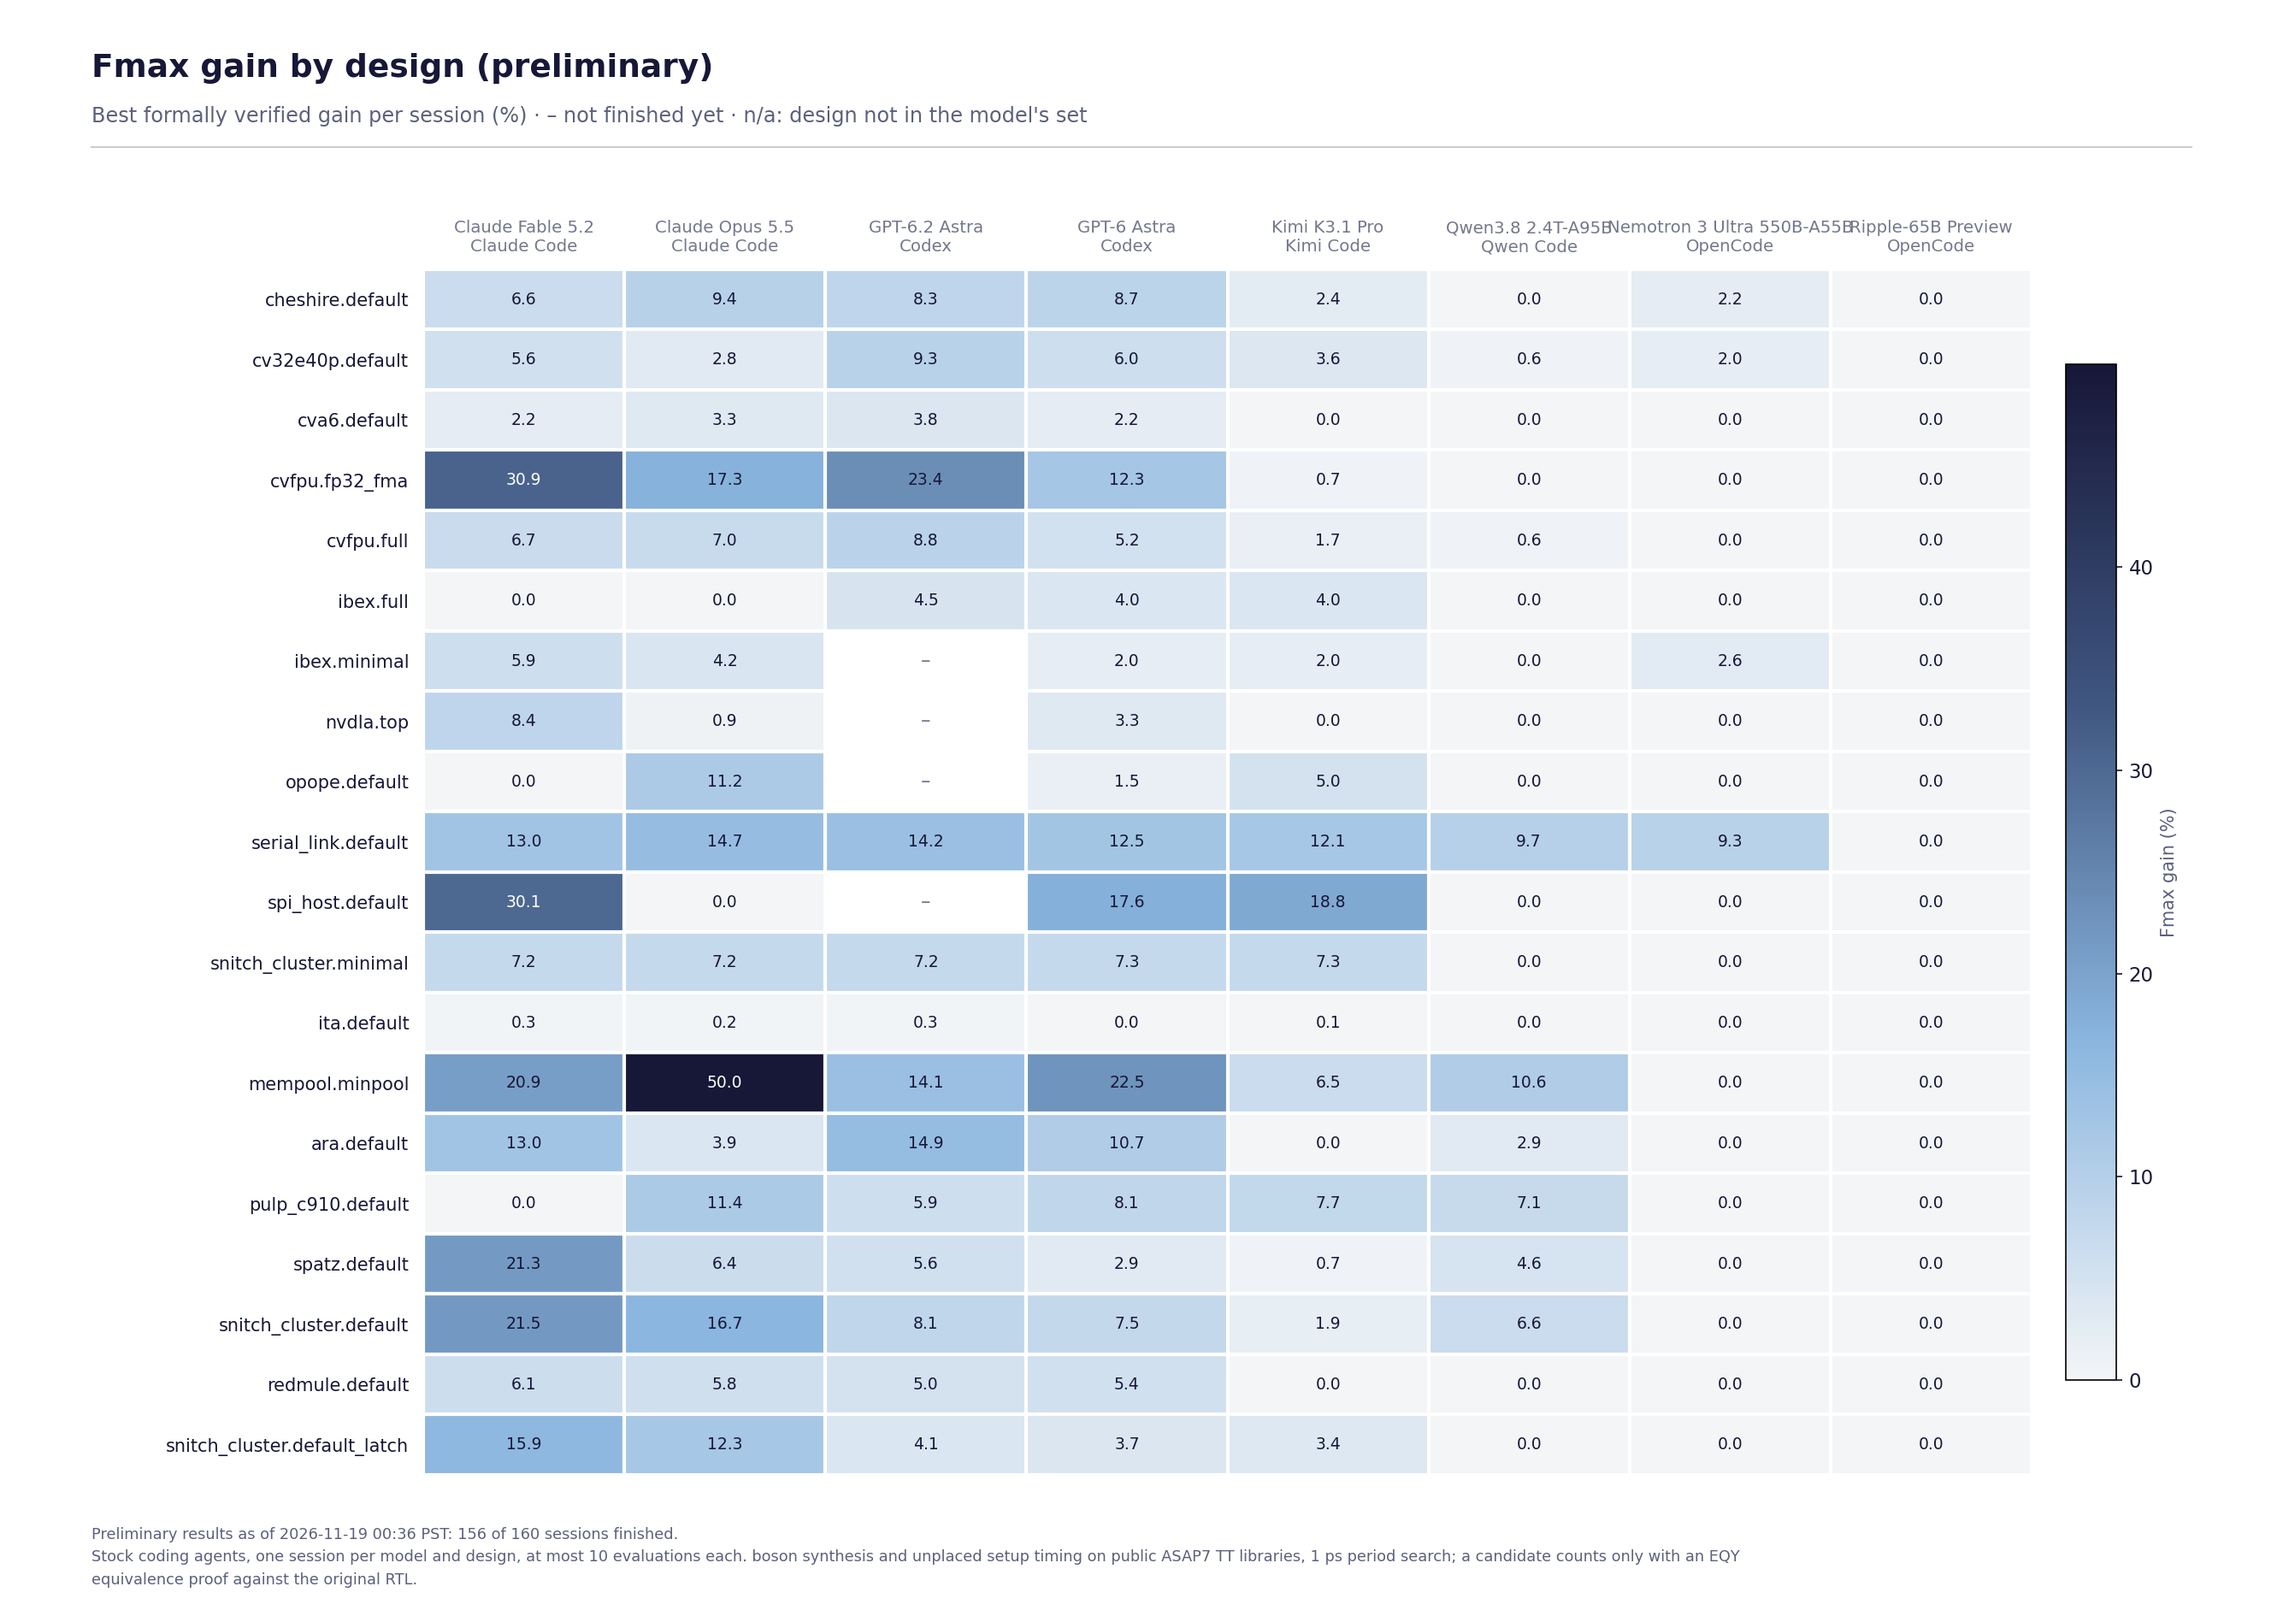
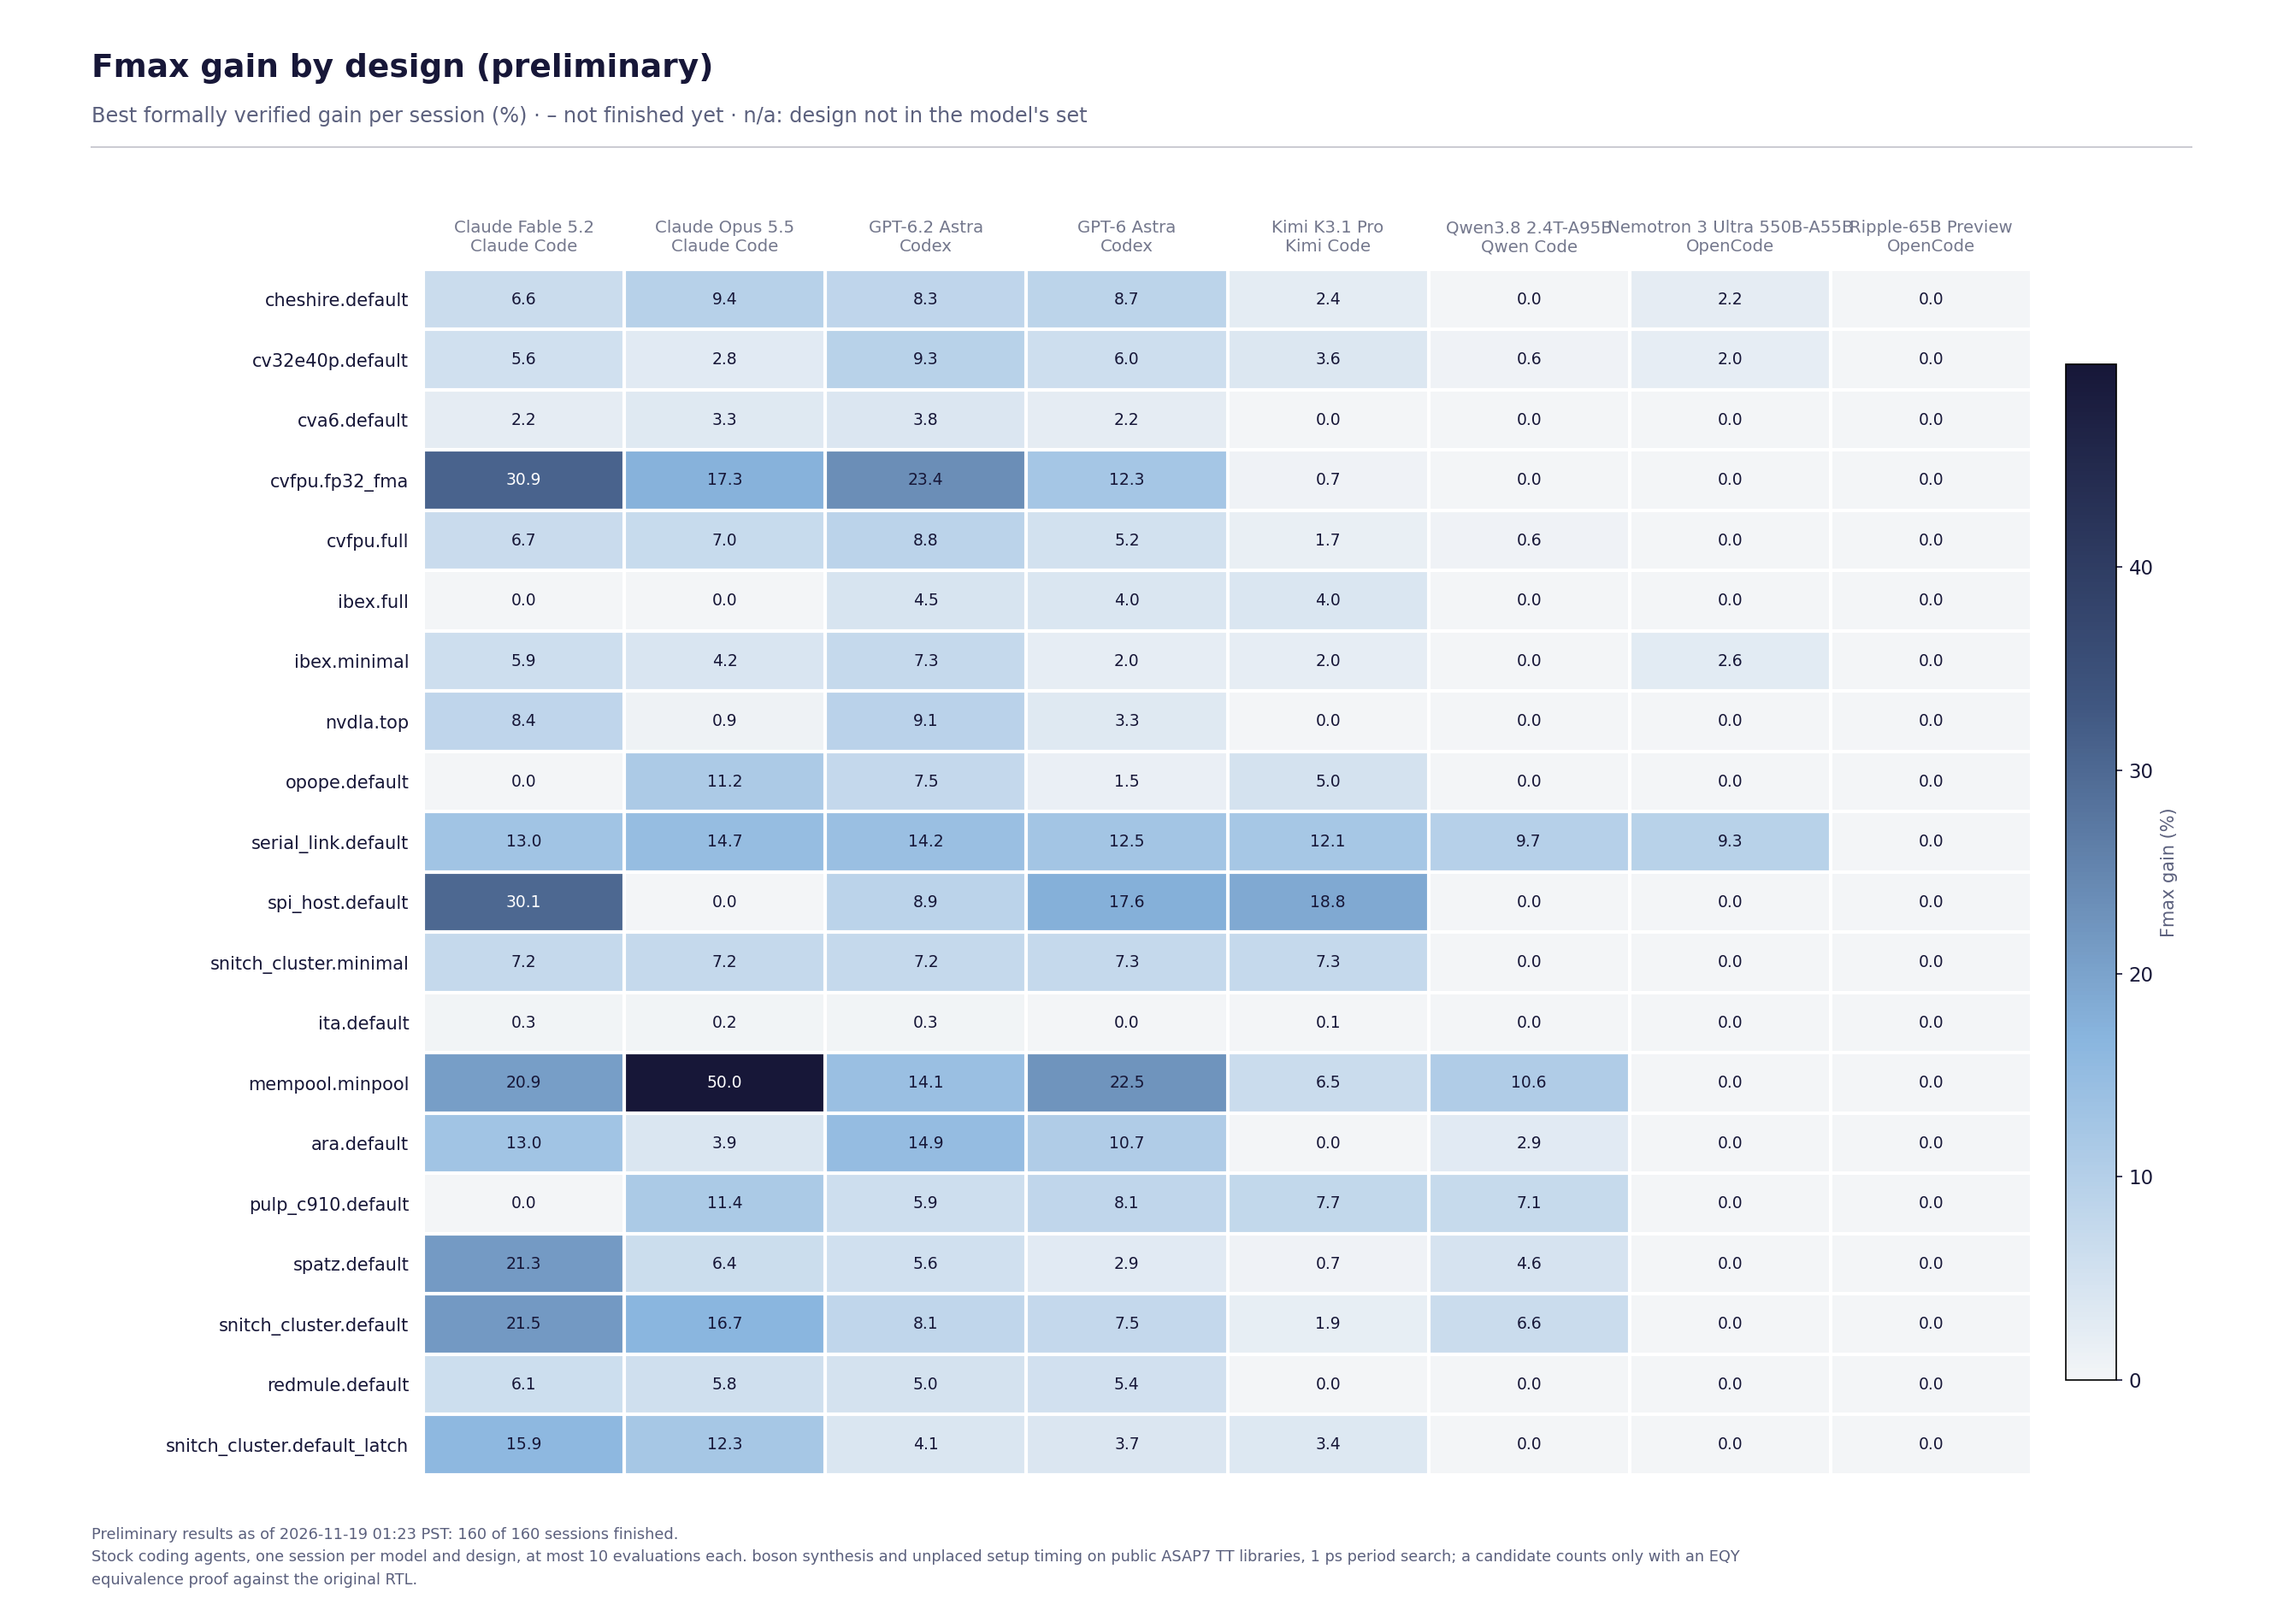
Refresh preliminary results: 160 of 160 sessions finished
Data as of 2026-11-19 01:23 PST.

Changed region(s): [[0.3419, 0.3746, 0.4663, 0.4995], [0.3419, 0.5307, 0.4663, 0.5931]]

diff --git a/README.md b/README.md
@@ -22,7 +22,7 @@ accepted only when it is proven equivalent and faster than the session's best so
 ## Results
 
 <!-- results:start -->
-**Status:** 156 of 160 sessions finished (8 models, 20 designs), as of 2026-11-19 00:36 PST. 1 interrupted attempts are excluded from these results while awaiting a valid replacement.
+**Status:** 160 of 160 sessions finished (8 models, 20 designs), as of 2026-11-19 01:23 PST.
 
 ### Coverage
 
@@ -34,23 +34,23 @@ accepted only when it is proven equivalent and faster than the session's best so
 | Qwen3.8 2.4T-A95B | Qwen (Alibaba) | Qwen Code 0.27.1 | OpenRouter, one pinned provider (SiliconFlow, FP8) | 20 / 20 |
 | Ripple-65B Preview | Ricursive AI | OpenCode 1.19.5 | Self-hosted (SGLang 0.5.19, BF16) for its first 15 designs; OpenRouter pinned to PrimeIntellect (BF16) for later sessions | 20 / 20 |
 | Nemotron 3 Ultra 550B-A55B | NVIDIA | OpenCode 1.19.5 | OpenRouter, pinned to DeepInfra (FP4), fallbacks disabled | 20 / 20 |
-| GPT-6.2 Astra | OpenAI | Codex 0.169.1 | Official CLI signed in to a subscription; reasoning effort medium, as GPT-6 Astra ran | 16 / 20 |
+| GPT-6.2 Astra | OpenAI | Codex 0.169.1 | Official CLI signed in to a subscription; reasoning effort medium, as GPT-6 Astra ran | 20 / 20 |
 | Claude Opus 5.5 | Anthropic | Claude Code 2.1.322 | Official CLI signed in to a subscription | 20 / 20 |
 
 ### Results by model
 
 | Model | Harness | Designs finished | Fmax gain (geomean) | Normalized score | Designs improved | Mean evaluations | Candidates not proven |
 |---|---|---:|---:|---:|---:|---:|---:|
-| Claude Fable 5.2 | Claude Code | 20 / 20 | +10.39% | 74.0 | 17 / 20 | 5.0 | 42% (42 / 99) |
-| Claude Opus 5.5 | Claude Code | 20 / 20 | +8.78% | 65.3 | 18 / 20 | 4.8 | 42% (40 / 95) |
-| GPT-6.2 Astra | Codex | 16 / 20 | +8.46% | 75.7 | 16 / 16 | 8.5 | 54% (73 / 136) |
-| GPT-6 Astra | Codex | 20 / 20 | +7.04% | 54.0 | 19 / 20 | 8.4 | 27% (45 / 169) |
-| Kimi K3.1 Pro | Kimi Code | 20 / 20 | +3.81% | 32.4 | 16 / 20 | 5.9 | 63% (74 / 118) |
+| Claude Fable 5.2 | Claude Code | 20 / 20 | +10.39% | 72.6 | 17 / 20 | 5.0 | 42% (42 / 99) |
+| Claude Opus 5.5 | Claude Code | 20 / 20 | +8.78% | 64.5 | 18 / 20 | 4.8 | 42% (40 / 95) |
+| GPT-6.2 Astra | Codex | 20 / 20 | +8.42% | 75.4 | 20 / 20 | 8.7 | 55% (96 / 173) |
+| GPT-6 Astra | Codex | 20 / 20 | +7.04% | 53.6 | 19 / 20 | 8.4 | 27% (45 / 169) |
+| Kimi K3.1 Pro | Kimi Code | 20 / 20 | +3.81% | 32.1 | 16 / 20 | 5.9 | 63% (74 / 118) |
 | Qwen3.8 2.4T-A95B | Qwen Code | 20 / 20 | +2.08% | 11.8 | 8 / 20 | 2.1 | 67% (28 / 42) |
-| Nemotron 3 Ultra 550B-A55B | OpenCode | 20 / 20 | +0.79% | 7.6 | 4 / 20 | 6.2 | 72% (89 / 123) |
+| Nemotron 3 Ultra 550B-A55B | OpenCode | 20 / 20 | +0.79% | 7.2 | 4 / 20 | 6.2 | 72% (89 / 123) |
 | Ripple-65B Preview | OpenCode | 20 / 20 | +0.00% | 0.0 | 0 / 20 | 0.1 | 100% (3 / 3) |
 
-Fmax gain is the geometric mean of each finished session's Fmax ratio (baseline period / best accepted period) over the designs that model has finished. Normalized score is the mean of its gain on each design as a percentage of the best gain any model here reached on that design (100: the best result on every design), so every design counts equally however much headroom it had. Models have finished different designs, so this order is provisional, not a like-for-like ranking, until every model covers the same designs. "Candidates not proven" is the share of evaluations whose equivalence proof did not pass.
+Fmax gain is the geometric mean of each finished session's Fmax ratio (baseline period / best accepted period) over the designs that model has finished. Normalized score is the mean of its gain on each design as a percentage of the best gain any model here reached on that design (100: the best result on every design), so every design counts equally however much headroom it had. Every model has finished the same designs, so this order is a like-for-like ranking over them; with one session per model and design it has no confidence intervals. "Candidates not proven" is the share of evaluations whose equivalence proof did not pass.
 
 ### Best result by design
 
@@ -62,11 +62,11 @@ Fmax gain is the geometric mean of each finished session's Fmax ratio (baseline 
 | `cvfpu.fp32_fma` | 1.401 | 8 | 1.070 | +30.93% | Claude Fable 5.2 |
 | `cvfpu.full` | 2.114 | 8 | 1.943 | +8.80% | GPT-6.2 Astra |
 | `ibex.full` | 0.935 | 8 | 0.895 | +4.47% | GPT-6.2 Astra |
-| `ibex.minimal` | 0.716 | 7 | 0.676 | +5.92% | Claude Fable 5.2 |
-| `nvdla.top` | 0.789 | 7 | 0.728 | +8.38% | Claude Fable 5.2 |
-| `opope.default` | 0.857 | 7 | 0.771 | +11.15% | Claude Opus 5.5 |
+| `ibex.minimal` | 0.716 | 8 | 0.667 | +7.35% | GPT-6.2 Astra |
+| `nvdla.top` | 0.789 | 8 | 0.723 | +9.13% | GPT-6.2 Astra |
+| `opope.default` | 0.857 | 8 | 0.771 | +11.15% | Claude Opus 5.5 |
 | `serial_link.default` | 0.305 | 8 | 0.266 | +14.66% | Claude Opus 5.5 |
-| `spi_host.default` | 0.475 | 7 | 0.365 | +30.14% | Claude Fable 5.2 |
+| `spi_host.default` | 0.475 | 8 | 0.365 | +30.14% | Claude Fable 5.2 |
 | `snitch_cluster.minimal` | 1.288 | 8 | 1.200 | +7.33% | GPT-6 Astra, Kimi K3.1 Pro |
 | `ita.default` | 0.903 | 8 | 0.900 | +0.33% | Claude Fable 5.2, GPT-6.2 Astra |
 | `mempool.minpool` | 2.869 | 8 | 1.913 | +49.97% | Claude Opus 5.5 |
@@ -81,10 +81,10 @@ Fmax gain is the geometric mean of each finished session's Fmax ratio (baseline 
 
 Counts over every finished session of the models above. They describe what happened; with one session per model and design they do not establish causes or rankings.
 
-- 785 candidates evaluated: 225 accepted, 158 proven equivalent but not faster than the session's best, 394 not proven (285 with a partition EQY could not prove, 44 at the proof deadline, 59 over the proof memory budget, 6 for another reason), 8 failed to compile or measure.
-- Of 156 finished sessions, 102 ended with the agent finishing on its own, 52 ran to the time budget and 2 ended with an agent error.
-- Sessions used 5.0 of the 10 allowed evaluations on average; 29 used all 10.
-- Largest single gain so far: `mempool.minpool` by Claude Opus 5.5, 2.869 ns to 1.913 ns (+49.97% Fmax).
+- 822 candidates evaluated: 232 accepted, 165 proven equivalent but not faster than the session's best, 417 not proven (302 with a partition EQY could not prove, 48 at the proof deadline, 61 over the proof memory budget, 6 for another reason), 8 failed to compile or measure.
+- Of 160 finished sessions, 104 ended with the agent finishing on its own, 54 ran to the time budget and 2 ended with an agent error.
+- Sessions used 5.1 of the 10 allowed evaluations on average; 32 used all 10.
+- Largest single gain: `mempool.minpool` by Claude Opus 5.5, 2.869 ns to 1.913 ns (+49.97% Fmax).
 <!-- results:end -->
 
 ## Charts
